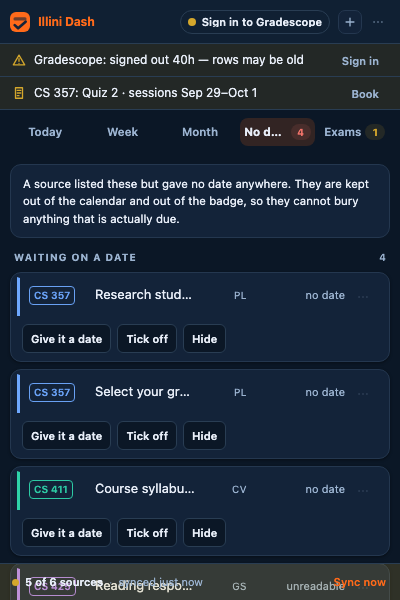
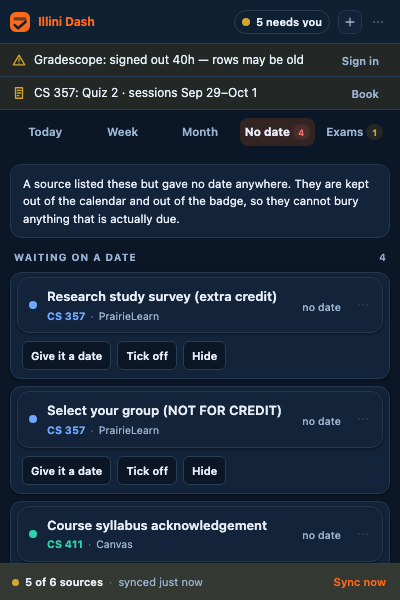
First merged build: an opaque footer, a tab that fits, no harness fallback
The amber footer was an rgba wash with nothing under it, so the row it
covered showed through the sentence; it is layered on the surface now. 'No
date' plus its count measured 80px in a 74px fifth and ellipsed; 3px of
padding and a smaller in-tab count bring it to 71. The deadline shot now
comes from a real row press or not at all.

diff --git a/public/popup.css b/public/popup.css
@@ -459,7 +459,10 @@ h2.section {
      the other side of it. A long label now ellipses inside its fifth; it can
      no longer push. */
   flex: 1 1 0; min-width: 0;
-  box-sizing: border-box; height: 28px; padding: 0 4px;
+  /* 3px, not 4: "No date" plus its count is the widest fifth at 11.5px/600 and
+     measured 80px in a 74px column — it ellipsed to "No d…". 3px of padding,
+     a 3px gap and the smaller in-tab count below bring it to 71. */
+  box-sizing: border-box; height: 28px; padding: 0 3px;
   font: inherit; font-size: 11.5px; font-weight: 600; line-height: 1;
   border: 0; border-radius: 8px;
   background: none; color: var(--muted); cursor: pointer; white-space: nowrap;
@@ -469,7 +472,8 @@ h2.section {
    tab strip. */
 .view-full .tab { flex: none; justify-content: flex-start; }
 .tab--label { min-width: 0; overflow: hidden; text-overflow: ellipsis; }
-.tab .chip-count { flex: none; min-width: 14px; padding: 0 3px; }
+.tab { gap: 3px; }
+.tab .chip-count { flex: none; min-width: 13px; padding: 0 2px; font-size: 9px; }
 .tab:hover { color: var(--fg); background: var(--hover); }
 .tab[aria-selected="true"] { color: var(--fg); background: var(--accent-wash); font-weight: 700; }
 .tab .icon { width: 12px; height: 12px; flex: none; }
@@ -1129,7 +1133,13 @@ h2.section.section--err { color: var(--err); opacity: 1; }
 .foot:empty { display: none; }
 /* Amber when a source is failing, which is when the ratio in `.foot--count`
    stops reading "8 sources" and starts reading "7 of 8 sources". */
-.foot--warn { background: var(--warn-wash-strong); }
+/* Layered on the opaque surface, not in place of it: the wash is an rgba and a
+   sticky footer with a translucent back shows the row it is covering through
+   the sentence (seen on the first merged build). */
+.foot--warn {
+  background-color: var(--surface);
+  background-image: linear-gradient(var(--warn-wash-strong), var(--warn-wash-strong));
+}
 .foot--dot { width: 7px; height: 7px; border-radius: 50%; flex: none; background: var(--muted); }
 .foot--dot.is-ok { background: var(--ok); }
 .foot--dot.is-warn { background: var(--warn); }

diff --git a/src/ui/popup.ts b/src/ui/popup.ts
@@ -456,21 +456,6 @@ app.openGiveDate = openGiveDate;
 app.openNeedsYou = openNeedsYou;
 app.closeNeedsYou = closeNeedsYou;
 
-/*
- * The harness's way in, and nothing else's.
- *
- * `npm run preview` appends an epilogue that opens a sub-screen so `npm run
- * shots` can capture one, and until a row's press routes through
- * `app.openDeadline` (D7) there is no route to the deadline screen from
- * outside this module graph — a state the harness cannot reach is a state
- * nothing checks. It is the object the modules already share, under a name
- * nothing else uses; it holds no decision, and the page is an extension
- * document that loads no remote script.
- */
-(globalThis as { __illiniDash?: { app: typeof app; state: typeof state } }).__illiniDash = {
-  app,
-  state,
-};
 
 renderActions();
 void refresh();
